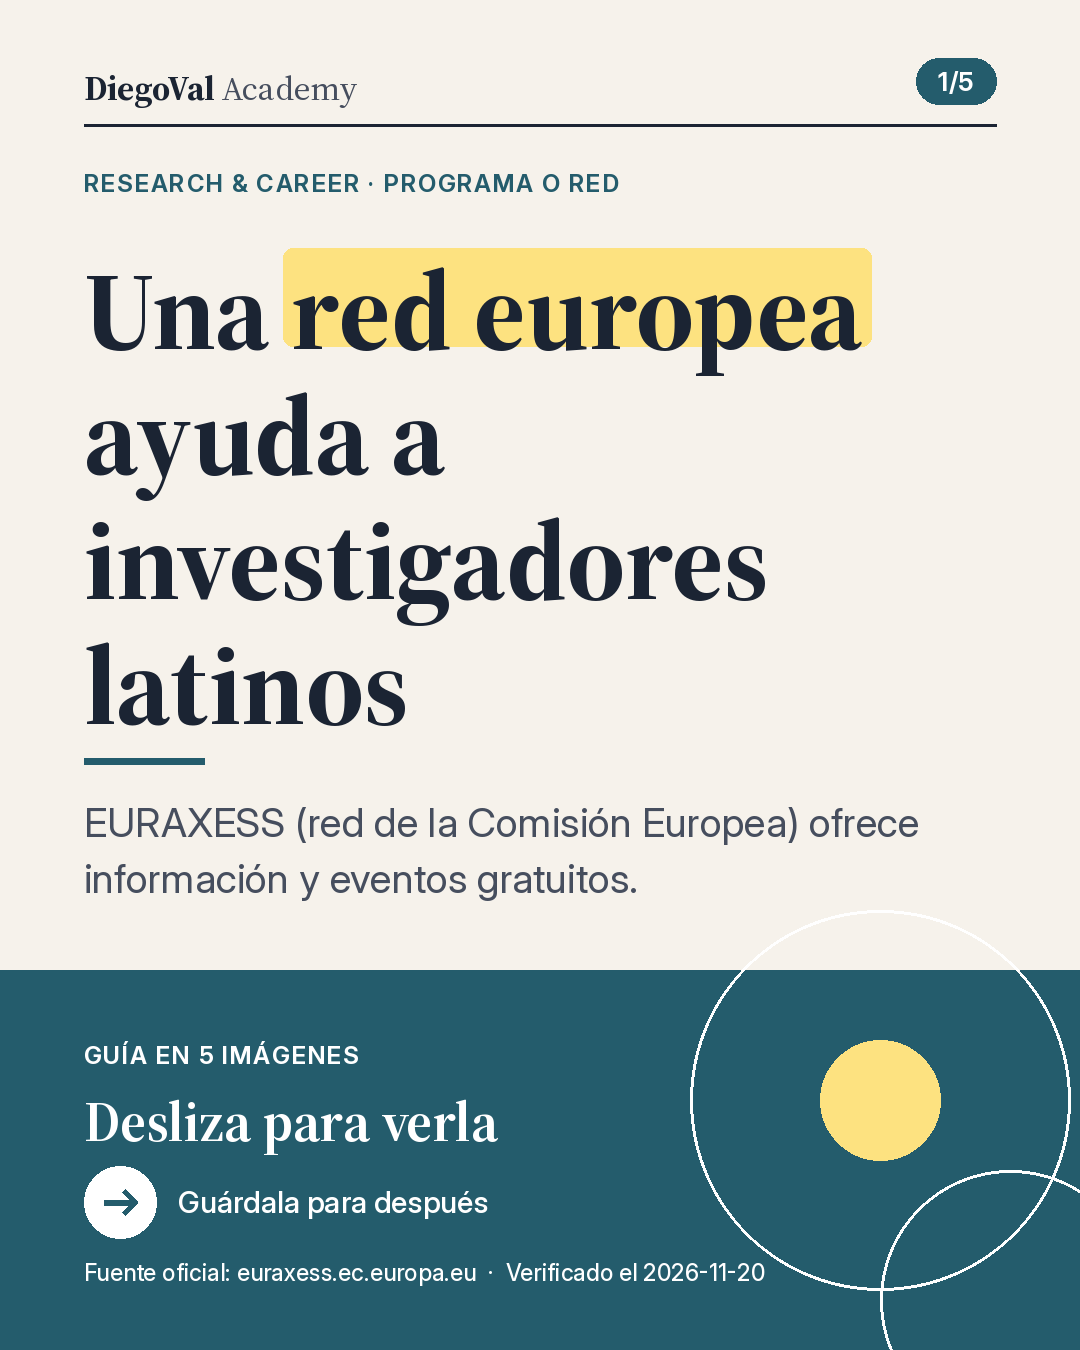
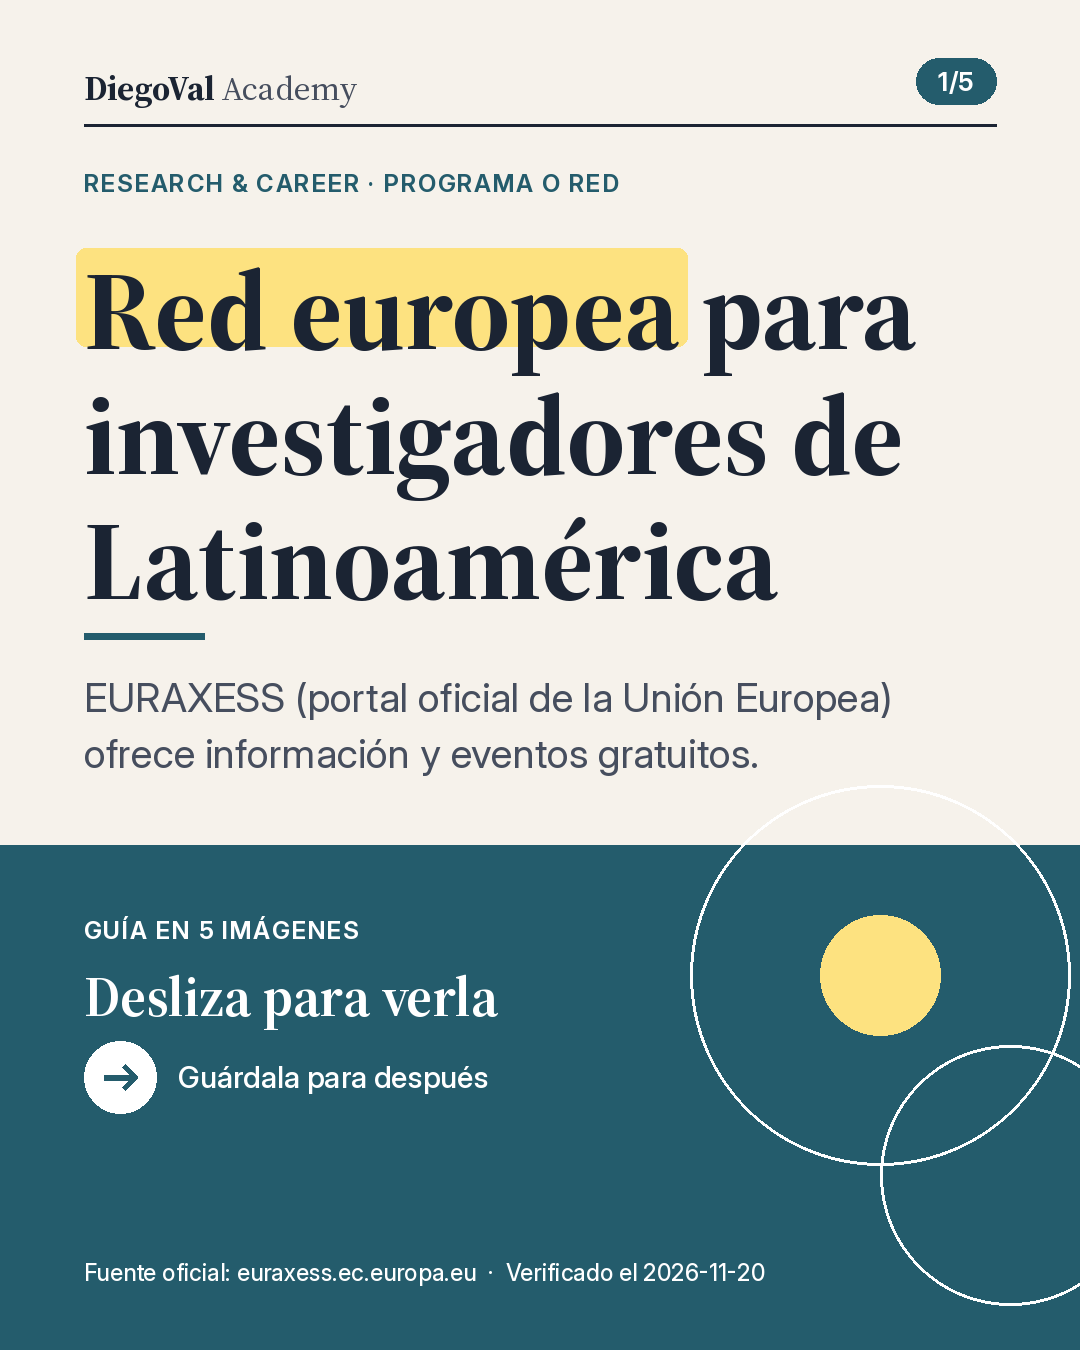
2026-11-20_viernes_red-euraxess-latinoamerica: correcciones tras primera verificación
Claude-Session: https://claude.ai/code/session_01HRCw36R8AXM5PwQjbsauXS

Changed region(s): [[0.0, 0.1867, 1.0, 0.9333], [0.7944, 0.9022, 0.9167, 0.9644], [0.9472, 0.8711, 0.9778, 0.9022]]

diff --git a/posts/2026-11-20_viernes_red-euraxess-latinoamerica/sources.md b/posts/2026-11-20_viernes_red-euraxess-latinoamerica/sources.md
@@ -12,8 +12,8 @@ Categoría: programa_red (red + mecanismo real de uso). Último viernes: carrera
 | https://euraxess.ec.europa.eu/worldwide/lac/events | Eventos | Próximo: "Do not miss our thematic sessions at Cilac foro, Brasilia", 24-25 nov 2026 (inglés). Pasados: "Webinar Horizon Europe for LAC: last calls in the WP 26/27" 28 sep 2026 (español, investigadores, universidades e instituciones); "Webinar: increasing Paraguay's international scientific visibility with EURAXESS" 1 oct 2026 (español); "Postdoc in Europe: information day..." 19-20 oct 2026 (portugués, para candidatos postdoc); "MSCA GLOPOL 2nd Regional Event for LAC" 25 sep 2026 (inglés, instituciones) |
 
 Notas:
-- "Muchas charlas son para quien ya tiene el doctorado o para universidades" se apoya en los eventos listados (postdoc, instituciones).
-- "Comisión Europea": EURAXESS es iniciativa de la Comisión Europea (descripción de EURAXESS en la web oficial y búsqueda 2026-11-20).
+- Tip: sólo se afirma que "algunas charlas son para universidades e instituciones": /events dice del seminario del 28 sep 2026 "researchers, universities and institutions of Latin America and the Caribbean"; el MSCA GLOPOL se dirige a instituciones. No se afirma público postdoctoral (no declarado).
+- No se afirma "Comisión Europea" para LAC (sin cita literal en la página LAC). Se dice "portal oficial de la Unión Europea (dominio europa.eu)": el sitio está en euraxess.ec.europa.eu. Referencia: https://euraxess.ec.europa.eu/worldwide/africa dice "EURAXESS Africa is an initiative of the European Commission" (otra oficina; no se usa en el texto).
 - No se afirma que haya beca propia ni plazo; no hay plazo (deadline null).
 - No verificable: número de investigadores atendidos ni cobertura de países concreta.
 

diff --git a/posts/2026-11-20_viernes_red-euraxess-latinoamerica/caption.md b/posts/2026-11-20_viernes_red-euraxess-latinoamerica/caption.md
@@ -1,11 +1,11 @@
-¿Vives en Latinoamérica y quieres investigar en Europa, pero no sabes a quién preguntar? Hay una red oficial de la Unión Europea que puede orientarte.
+¿Vives en Latinoamérica y quieres investigar en Europa, pero no sabes a quién preguntar? Hay un portal oficial de la Unión Europea que puede orientarte.
 
 En corto:
-• Qué es: EURAXESS (red de la Comisión Europea, la institución que propone las leyes de la Unión Europea) para investigadores. Tiene una oficina para América Latina y el Caribe.
-• Qué ofrece: información y eventos gratuitos sobre financiación, carreras de investigación y colaboración. También charlas por internet y un boletín por correo.
+• Qué es: EURAXESS (portal oficial de la Unión Europea, con dominio europa.eu) para investigadores. Tiene una oficina para América Latina y el Caribe.
+• Qué ofrece: información y eventos gratuitos sobre financiación de investigación, carreras de investigación y colaboración. También charlas por internet y un boletín por correo.
 • Quién: según su web, atiende a «investigadores de todas las nacionalidades, disciplinas y etapas».
 
-Lo que pocos explican: la web principal está en inglés y muchas charlas son para quien ya tiene el doctorado o para universidades. Algunas son en español. Mira a quién va dirigida cada una antes de apuntarte.
+Lo que pocos explican: la web principal está en inglés y algunas charlas son para universidades e instituciones. Algunas son en español. Lee a quién va dirigida cada una antes de apuntarte.
 
 Cómo empezar:
 1. Abre la página oficial de EURAXESS para América Latina y el Caribe (en inglés).

diff --git a/posts/2026-11-20_viernes_red-euraxess-latinoamerica/validation_instagram.md b/posts/2026-11-20_viernes_red-euraxess-latinoamerica/validation_instagram.md
@@ -1,6 +1,6 @@
 # Validación Instagram — 2026-11-20_viernes_red-euraxess-latinoamerica
 
-Ejecutado: 2026-11-20T07:09:01+01:00
+Ejecutado: 2026-11-20T07:10:40+01:00
 Decisión: **BLOQUEADA: no publicar**
 
 | Estado | Comprobación | Detalle |
@@ -8,10 +8,10 @@ Decisión: **BLOQUEADA: no publicar**
 | PASS | Archivos obligatorios | 5 imágenes + caption + carousel.json |
 | FAIL | Base verificada (LinkedIn) | falta validation.md APROBADA: el carrusel reutiliza esa investigación |
 | PASS | Imágenes 1080×1350 PNG | 5 imágenes correctas |
-| PASS | Imágenes actualizadas | generadas desde el carousel.json actual |
+| FAIL | Imágenes actualizadas | carousel.json cambió después de renderizar: ejecuta render_carousel.py |
 | PASS | Imágenes sin URL completa | sólo dominios |
 | PASS | Fecha de verificación | 2026-11-20 |
-| PASS | Caption breve | 655 caracteres (máx. 1000) |
+| PASS | Caption breve | 621 caracteres (máx. 1000) |
 | PASS | Hashtags | 4 (rango 3-8) |
 | PASS | Verificado el | 2026-11-20 |
 | PASS | Lenguaje sencillo: siglas (texto) | todas explicadas o ninguna |

diff --git a/posts/2026-11-20_viernes_red-euraxess-latinoamerica/caption_instagram.md b/posts/2026-11-20_viernes_red-euraxess-latinoamerica/caption_instagram.md
@@ -1,10 +1,10 @@
 ¿Quieres investigar en Europa y no sabes a quién preguntar? 🇪🇺
 
-EURAXESS (red de la Comisión Europea, la institución que propone las leyes de la Unión Europea) tiene una oficina para América Latina y el Caribe.
+EURAXESS (portal oficial de la Unión Europea, con dominio europa.eu) tiene una oficina para América Latina y el Caribe.
 
-✅ Ofrece información y eventos gratuitos sobre becas, carreras de investigación y colaboración
+✅ Ofrece información y eventos gratuitos sobre financiación, carreras de investigación y colaboración
 ✅ Atiende a investigadores de todas las nacionalidades y etapas
-✅ Muchas charlas son para quien ya tiene el doctorado: mira a quién va dirigida cada una
+✅ Algunas charlas son para universidades: lee a quién va dirigida cada una
 
 Esta semana: abre su sección de eventos y busca una charla en español. Información oficial en euraxess.ec.europa.eu
 

diff --git a/posts/2026-11-20_viernes_red-euraxess-latinoamerica/validation.md b/posts/2026-11-20_viernes_red-euraxess-latinoamerica/validation.md
@@ -1,6 +1,6 @@
 # Validación — 2026-11-20_viernes_red-euraxess-latinoamerica
 
-Ejecutado: 2026-11-20T07:09:00+01:00
+Ejecutado: 2026-11-20T07:11:00+01:00
 Decisión: **BLOQUEADA: no publicar**
 
 | Estado | Comprobación | Detalle |
@@ -10,7 +10,7 @@ Decisión: **BLOQUEADA: no publicar**
 | PASS | Imagen | 1080x1350 PNG, 1 archivo (+5 diapositivas de carrusel, ignoradas) |
 | PASS | Canal Buffer | DiegoVal Academy (6ae0bdf22f1f5ed648eb92f9) |
 | PASS | Verificación del día | 2026-11-20 |
-| PASS | Longitud del texto | 1210/1300 caracteres |
+| PASS | Longitud del texto | 1183/1300 caracteres |
 | PASS | Fecha visible en el texto | Verificado el: 2026-11-20 |
 | PASS | Marcadores pendientes | ninguno |
 | PASS | Enlaces documentados en sources.md | 2 enlaces |
